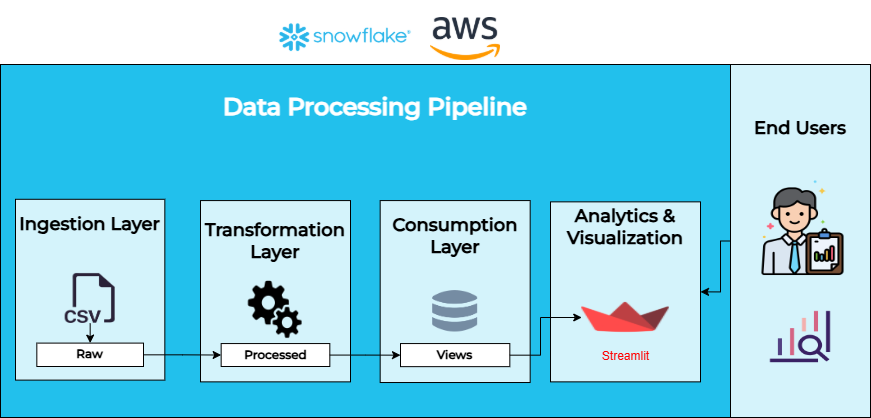
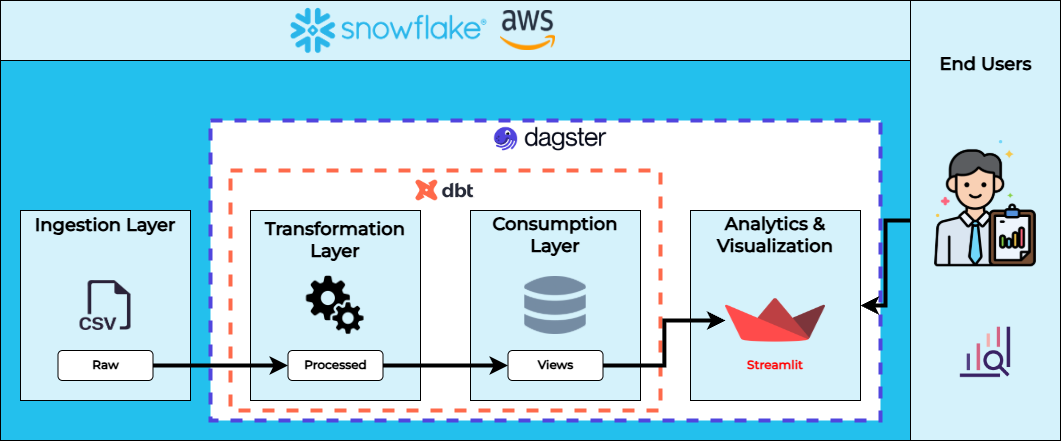
update projects section

diff --git a/index.html b/index.html
@@ -277,7 +277,7 @@
                                         <div class="content">
                                             <!-- Title -->
                                             <h4 class="title">
-                                                <a href="javascript:void(0)">Food Aggregator Data Pipeline
+                                                <a href="javascript:void(0)">Data Pipeline with Snowflake & dbt
                                                     <i class="feather-arrow-up-right"></i>
                                                 </a>
                                             </h4>
@@ -294,6 +294,8 @@
 
                                             <div class="project-tech-stack">
                                                 <span>Snowflake</span>
+                                                <span>dbt</span>
+                                                <span>Dagster</span>
                                                 <span>SQL</span>
                                                 <span>ELT</span>
                                                 <span>Streamlit</span>
@@ -302,8 +304,8 @@
                                             <!-- Project Description (Overlay on Image) -->
                                             <div class="project-description">
                                                 <p>
-                                                    Architected a 3-layer data warehouse in Snowflake, developing staging, intermediate, and analytics layers for data processing.
-                                                    Implemented ELT process using Snowflake's COPY command and Streams to efficiently load and transform data.
+                                                    Designed an ELT pipeline with Snowflake and dbt, optimizing data transformations and also implemented dbt incremental models by processing only delta data.
+                                                    Automated data workflows with Dagster, streamlining transformations and visualizations.
                                                 </p>
                                             </div>
 
@@ -320,7 +322,7 @@
                                         <!-- Image Container -->
                                         <div class="thumbnail">
                                             <a href="javascript:void(0)">
-                                                <img src="assets/images/projects/project3.webp"
+                                                <img src="assets/images/projects/project3.png"
                                                     alt="Personal Portfolio Images">
                                             </a>
                                         </div>
@@ -345,18 +347,19 @@
                                             </div>
 
                                             <div class="project-tech-stack">
-                                                <span>Tor</span>
                                                 <span>Python</span>
-                                                <span>JavaScript</span>
+                                                <span>JS</span>
                                                 <span>Selenium</span>
-                                                <span>MongoDB</span>
+                                                <span>Neo4j</span>
+                                                <span>GraphQL</span>
+                                                <span>SQS</span>
                                             </div>
         
                                             <!-- Project Description (Overlay on Image) -->
                                             <div class="project-description">
                                                 <p>
                                                     Developed a dark web crawler in Python using Selenium on Tor network to track illicit cryptocurrency transactions.
-                                                    Extracted Bitcoin addresses by crawling 100K+ onion sites, storing the data in MongoDB.
+                                                    Designed blockchain transaction scraper, tracing fund movements and mapping 15K+ relationships in Neo4j for pattern analysis.
                                                 </p>
                                             </div>
 
